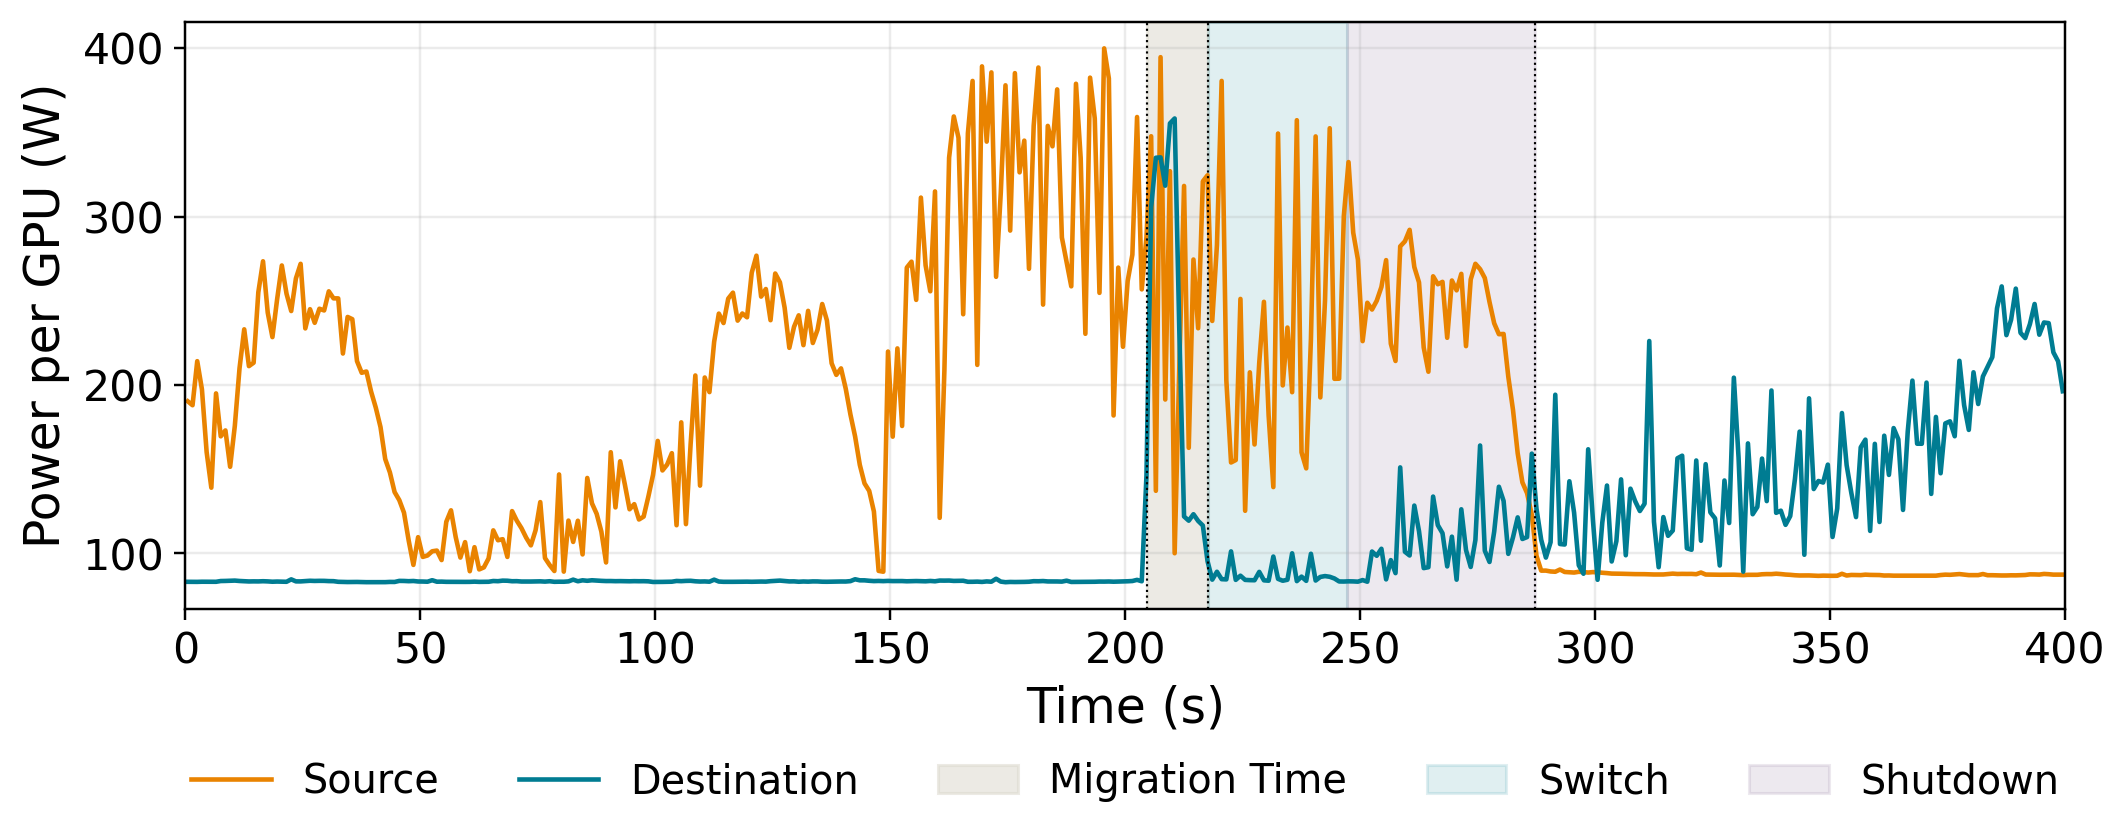
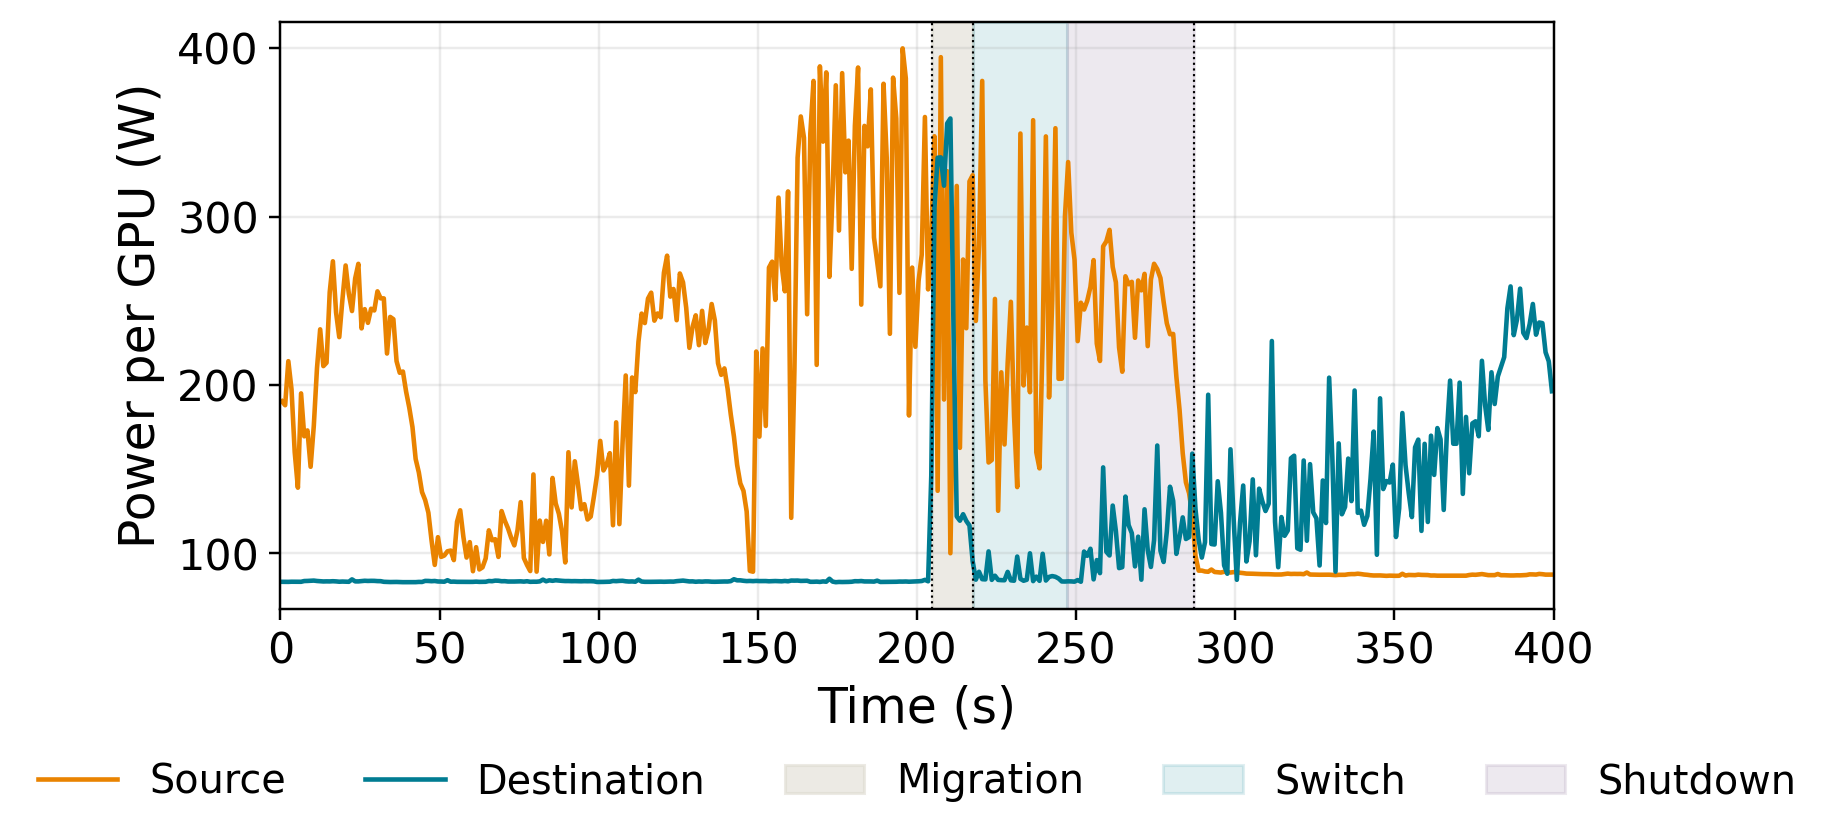
Resize and relabel power plot

diff --git a/agent-migrate/queue-haul/outputs/live-power-oneoff/driver.py b/agent-migrate/queue-haul/outputs/live-power-oneoff/driver.py
@@ -263,7 +263,7 @@ def reduce_power(run_root: Path, local_power: Path, markers: Markers,
 
     origin = markers.rows[0]["wall_ns"] / 1e9
     plt.style.use("default")
-    fig, ax = plt.subplots(figsize=(10, 4))
+    fig, ax = plt.subplots(figsize=(8, 4))
     for label, uuid, color in (
         ("Source", role_uuids[0], "#E98300"),
         ("Destination", role_uuids[1], "#007C92"),
@@ -274,7 +274,7 @@ def reduce_power(run_root: Path, local_power: Path, markers: Markers,
               for row in markers.rows}
     if "migration_start" in marker and "migration_complete" in marker:
         ax.axvspan(*migration_window(marker), color="#DAD7CB", alpha=.5,
-                   label="Migration Time")
+                   label="Migration")
     if "migration_complete" in marker and "destination_steady" in marker:
         ax.axvspan(*switch_window(marker), color="#007C92",
                    alpha=.12, label="Switch")
